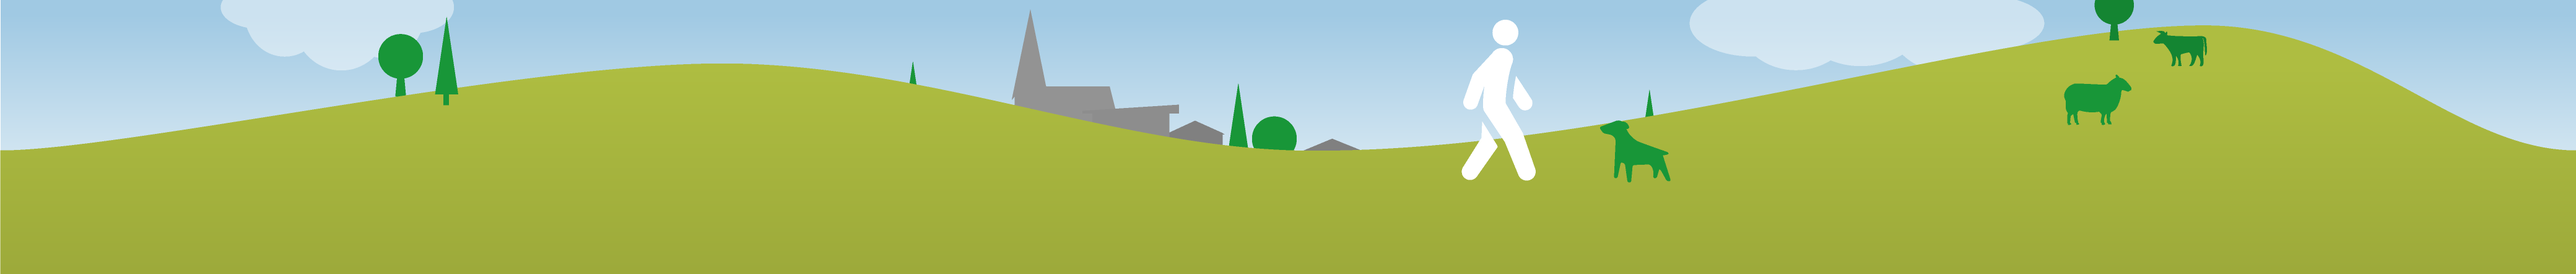
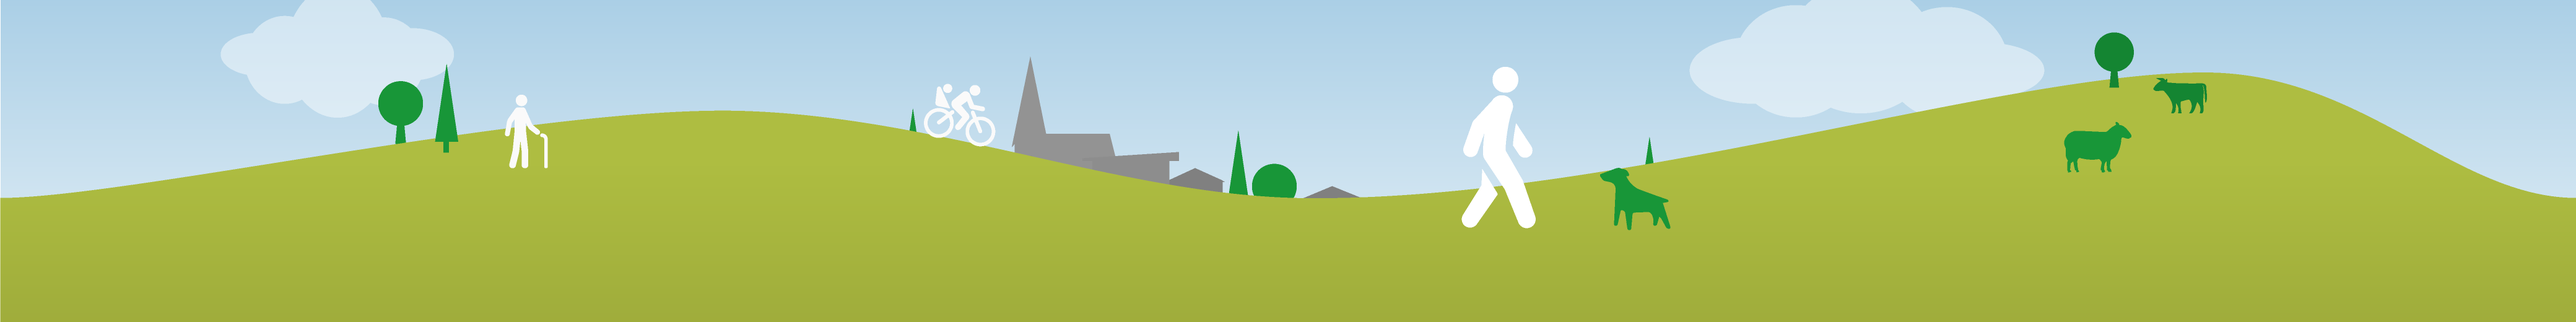
Header umgebaut
Bilder integriert, responsive angepasst, Handheld-Navi funktioniert
nicht

Changed region(s): [[0.0, 0.0, 1.0, 0.7027]]

diff --git a/assets/css/_header.scss b/assets/css/_header.scss
@@ -1,11 +1,80 @@
 // Alles im Header
 
 
+// ### BACKGROUND ###
+
+.wrapper-header { // auf allen Seiten
+	@extend .wrapper;
+	height: 70px;
+
+	@include respond-to(bp-medium) {
+		height: 160px;
+	}
+	@include respond-to(bp-large) {
+		height: 220px;
+	}
+	@include respond-to(bp-xlarge) {
+		height: 240px;
+	}
+}
+
+.header-start .wrapper-header { // Nur auf der Startseite
+	height: 105px;
+
+	@include respond-to(bp-medium) {
+		height: 240px;
+	}
+	@include respond-to(bp-large) {
+		height: 330px;
+	}
+	@include respond-to(bp-xlarge) {
+		height: 390px;
+	}
+}
+
+.header {
+	@extend .outside-wrapper; // damit Cotainer bei kleineren Auflösungen nicht am Rand kleben
+	background-image: url(../img/bg/bg-header.png);
+	background-position: bottom -20px center;
+	background-repeat: repeat-x;
+	background-size: 800px;
+	
+	@include respond-to(bp-medium) {
+		background-size: 1400px;
+		background-position: bottom 0 center;
+	}
+	@include respond-to(bp-large) {
+		background-size: 1800px;
+	}
+	@include respond-to(bp-xlarge) {
+		background-size: 2080px;
+	}
+}
+
+.header-start {
+	@extend .header;
+	background-image: url(../img/bg/bg-header-start.png);
+}
+
+
+
+
 // #### LOGO ###
 
 .logo {
 	margin-left: $inner-distance;
 	width: 9em;
+	position: absolute;
+	z-index: 200;
+	bottom: 0;
+
+	@include respond-to(bp-medium) {
+		bottom: 42px;
+	}
+	@include respond-to(bp-large) {
+		bottom: 50px;
+	}
+
 
 	img {
 		width: 100%;
@@ -92,7 +161,7 @@
 
 	position: absolute;
 	right: $inner-distance;
-	top: -1em;
+	top: 1em;
 
 	@include respond-to(bp-large) {
 		right: $bg-ribbon-width;
@@ -122,13 +191,5 @@
 	margin-right: 0.3em;
 }
 
-// ### BACKGROUND ###
-
-.header {
-	@extend .outside-wrapper; // damit Cotainer bei kleineren Auflösungen nicht am Rand kleben
-	background: url(../img/bg/bg-header.png) bottom center repeat-x;
-	background-size: 2080px;
-	padding-top: 2em;
-}
 
 

diff --git a/assets/css/_navigation.scss b/assets/css/_navigation.scss
@@ -1,5 +1,13 @@
 // Hauptnavigation
 
+.nav {
+	@include respond-to(bp-medium) {
+		position: absolute;
+		width: 100%;
+		bottom: 0;
+		z-index: 1000;
+	}
+}
 
 .nav-main {
 	background-color: $brand-color-contrast;
@@ -13,11 +21,6 @@
 	}
 }
 
-.nav {
-	@include respond-to(bp-medium) {
-
-	}
-}
 
 .nav-list {
 	@include respond-to(bp-small-only) {
@@ -123,7 +126,7 @@
 
 	cursor: pointer;
 	position: absolute;
-	top: 3px;
+	bottom: 16px;
 	right: $inner-distance;
 	padding: 0.5em 0.7em 0.4em;
 	background: $brand-color-contrast;
